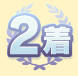
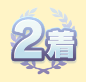
improve ranking detect and fix missing data

diff --git a/Umamusume/stage.py b/Umamusume/stage.py
@@ -49,10 +49,10 @@ Enum = {
     'pos': ((153, 297),(234, 294),(307, 297),(420, 296),(297, 894),),
     'color': ((200, 255, 35),(206, 255, 45),(198, 255, 27),(205, 255, 40),(255, 255, 255),)
   },
-  'TrainingComplete': {
+  'RaiseComplete': {
     'id': 6,
-    'pos': ((74, 838),(74, 861),(250, 865),(198, 832),(332, 875),(510, 847)),
-    'color': ((244, 244, 247),(55, 203, 222),(88, 215, 229),(27, 149, 55),(250, 82, 140),(244, 244, 244))
+    'pos': ((8, 18),(131, 12),(429, 374),(360, 278),(366, 589),(75, 830),(78, 863),(177, 820),(327, 877),(484, 834),),
+    'color': ((72, 68, 92),(99, 93, 126),(255, 166, 72),(121, 216, 35),(121, 216, 35),(247, 247, 250),(53, 203, 221),(27, 149, 55),(248, 80, 140),(49, 120, 189),)
   },
   'ObjectivePrepare': {
     'id': 7,
@@ -109,11 +109,6 @@ Enum = {
     'pos': ((14, 332),(302, 329),(57, 501),(520, 544),(76, 651),(339, 665),),
     'color': ((101, 186, 0),(255, 255, 255),(88, 181, 57),(254, 254, 254),(255, 255, 255),(143, 212, 8),)
   },
-  'RaiseComplete': {
-    'id': 16,
-    'pos': ((8, 18),(131, 12),(429, 374),(360, 278),(366, 589),(75, 830),(78, 863),(177, 820),(327, 877),(484, 834),),
-    'color': ((72, 68, 92),(99, 93, 126),(255, 166, 72),(121, 216, 35),(121, 216, 35),(247, 247, 250),(53, 203, 221),(27, 149, 55),(248, 80, 140),(49, 120, 189),)
-  }
 }
 
 Status = {
@@ -247,7 +242,7 @@ def get_all_training_effect(only_support=False):
   for i,pos in enumerate(position.AttrTrainPos):
     speed = 20 if i == 0 else 10
     Input.moveto(*pos, speed)
-    wait(0.1 if only_support else 3)
+    wait(0.5 if only_support else 3)
     if i == 0:
       Input.mouse_down()
     else:
@@ -499,11 +494,14 @@ def get_available_skills(_async,immediate=False,to_get=[]):
     return ret
   
 def get_race_ranking():
+  mrate = 0.2
+  ret   = 0
   for idx,fname in enumerate(_G.ImageRaceRanking):
-    pts = graphics.find_object(fname, 0.98)
-    if pts:
-      return idx+1
-  return 0
+    pts,rts = graphics.find_object_with_rates(fname, 0.98)
+    if pts and rts[0] > mrate:
+      ret = idx+1
+      mrate = rts[0]
+  return ret
 
 def is_healthroom_available():
   return graphics.is_pixel_match(HealthRoom['pos'], HealthRoom['color'])

diff --git a/DP/dunar_temple.rb b/DP/dunar_temple.rb
@@ -1,7 +1,7 @@
 module DunarTemple
   extend Grinding  
   
-  TimesPerClearInventory = 2
+  TimesPerClearInventory = 1
   TimesPerJBBuff = 3
   TimesPer302ShardCombine = 3
   TimesPerEquipmentEnhance = 9
@@ -12,6 +12,8 @@ module DunarTemple
   DungeonMapPos   = [1750,864]
   DungeonMapColor =  [31,33,25]
   FlagHasJB = false
+  FlagHasMerchant = false
+  FlagHasCombiner  = false
 
   @timer_run = 0
   
@@ -200,15 +202,19 @@ module DunarTemple
   end
 
   def clear_inventory
-    Combat.earth_shield; uwait 2;
-    flag_combine302 = (@timer_run % TimesPer302ShardCombine == 0)
-    combine_shards(flag_combine302); uwait 2;
-    Input.trigger_key Keymap[:vk_esc],false; uwait 0.5;
+    if FlagHasCombiner
+      Combat.earth_shield; uwait 2;
+      flag_combine302 = (@timer_run % TimesPer302ShardCombine == 0)
+      combine_shards(flag_combine302); uwait 2;
+      Input.trigger_key Keymap[:vk_esc],false; uwait 0.5;
+    end
     Input.trigger_key Keymap[:vk_D],false; uwait 0.5; Combat.earth_shield; uwait 2;
     discard_shards; uwait 2;
-    Input.trigger_key Keymap[:vk_esc],false; uwait 0.5;
-    Input.trigger_key Keymap[:vk_A],false; uwait 0.5; Combat.earth_shield; uwait 2;
-    shop_sells; uwait 2;
+    if FlagHasMerchant
+      Input.trigger_key Keymap[:vk_esc],false; uwait 0.5;
+      Input.trigger_key Keymap[:vk_A],false; uwait 0.5; Combat.earth_shield; uwait 2;
+      shop_sells; uwait 2;
+    end
     puts "Inventory cleared"
   end
 

diff --git a/Umamusume/_G.py b/Umamusume/_G.py
@@ -130,11 +130,11 @@ ImageRaceRanking = [
 ]
 
 UmaSkillData = {}
-with open("UmaLibrary/SkillData.json", 'r') as fp:
+with open("UmaLibrary/SkillData.json", 'r', encoding='utf8') as fp:
   UmaSkillData = json.load(fp)['Skill']
 
 UmaEventData = {}
-with open("UmaLibrary/UmaMusumeLibrary.json", 'r') as fp:
+with open("UmaLibrary/UmaMusumeLibrary.json", 'r', encoding='utf8') as fp:
   raw = json.load(fp)
   # Character
   for star in raw['Charactor']:
@@ -156,7 +156,7 @@ with open("UmaLibrary/UmaMusumeLibrary.json", 'r') as fp:
           continue
         UmaEventData[name] = event[name]
 
-with open("UmaLibrary/UmaMusumeLibraryMainStory.json", 'r') as fp:
+with open("UmaLibrary/UmaMusumeLibraryMainStory.json", 'r', encoding='utf8') as fp:
   raw = json.load(fp)
   for chap in raw['MainStory']:
     for scenario in raw['MainStory'][chap]:
@@ -167,7 +167,7 @@ with open("UmaLibrary/UmaMusumeLibraryMainStory.json", 'r') as fp:
         UmaEventData[name] = event[name]
 
 UmaRaceData = {}
-with open("UmaLibrary/RaceDataLibrary.json", 'r') as fp:
+with open("UmaLibrary/RaceDataLibrary.json", 'r', encoding='utf8') as fp:
   raw = json.load(fp)
   for tier in raw['Race']:
     for race in raw['Race'][tier]:

diff --git a/Umamusume/UmaData/common.py b/Umamusume/UmaData/common.py
@@ -212,6 +212,7 @@ NormalSkillOrder = [
   '非根幹距離×',
   'スリーセブン',
   '一匹狼',
+  
   # running style higher priority
   '逃亡者',
   '押し切り準備',
@@ -220,6 +221,11 @@ NormalSkillOrder = [
   '脱出術',
   '急ぎ足',
   '危険回避',
+  'シックスセンス',
+  '先頭プライド',
+  '再燃焼',
+  '二の矢',
+  'リスタート'
   '先手必勝',
   '先駆け',
   'スピードスター',
@@ -302,11 +308,6 @@ NormalSkillOrder = [
   '逃げ直線○',
   '逃げコーナー◎',
   '逃げコーナー○',
-  'シックスセンス',
-  '先頭プライド',
-  '再燃焼',
-  '二の矢',
-  'リスタート',
   '逃げのコツ◎',
   '逃げのコツ○',
   '先行直線◎',

diff --git a/Umamusume/graphics.py b/Umamusume/graphics.py
@@ -137,3 +137,12 @@ def find_object(objimg_path, threshold=CVMatchHardRate):
   tmp = cv2.imread(objimg_path)
   res = cv2.matchTemplate(src, tmp, cv2.TM_CCOEFF_NORMED)
   return filter_local_templates(res, threshold)
+
+def find_object_with_rates(objimg_path, threshold=CVMatchHardRate):
+  take_snapshot()
+  src = cv2.imread(f"{_G.DCTmpFolder}/{_G.DCSnapshotFile}")
+  tmp = cv2.imread(objimg_path)
+  res = cv2.matchTemplate(src, tmp, cv2.TM_CCOEFF_NORMED)
+  objects = filter_local_templates(res, threshold)
+  rates = [res[y][x] for x,y in objects]
+  return (objects, rates)
